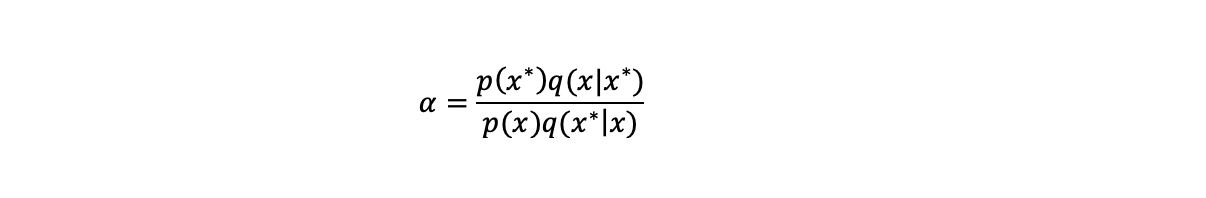
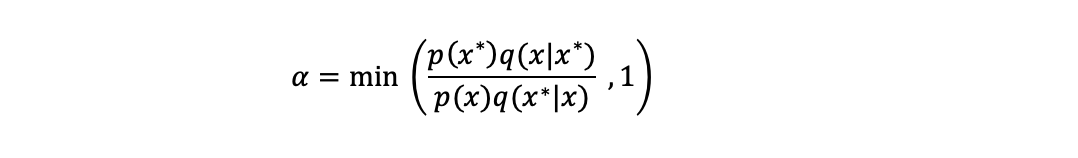
edits

Changed region(s): [[0.2449, 0.2532, 0.6122, 0.7089]]

diff --git a/technical/mcmc/index.html b/technical/mcmc/index.html
@@ -101,8 +101,8 @@ The idea is to use a Markov chain to generate samples from the distribution we w
   "keywords": [
     "technical"
   ],
-  "articleBody": "View from the Peggy Guggenheim Collection, Venice.\nIn the previous post we calculated the posterior distribution for a parameter we wanted to estimate. However, in practice, this is often not analytically possible and numerical simulations are needed. Here we evaluate the distribution using a Markov Chain Monte Carlo (MCMC) technique.\nThe idea is to use a Markov chain to generate samples from the distribution we want to evaluate where as the chain evolves over time the values it generates have the properties of the posterior’s probability distribution. These techniques have become important in Bayesian inference as they allow complicated probability distributions to be simulated.\nThis post covers:\n1. The Metropolis Hastings MCMC algorithm\n2. Why this works\n3. Evaluating a Bayesian posterior distribution with MCMC\n1.\tThe Metropolis Hastings MCMC algorithm Here we look at the Metropolis Hastings algorithm. The distribution we want to simulate is labelled as p. We have a state x and from this generate a proposed new state x* with the probability q(x*|x). q is a probability distribution for x* which depends on x, known as a proposal distribution. As the chain evolves over time the distribution of x values it generates has the properties of the distribution p. x is indexed by the time period s: x(s).\nThe algorithm to simulate the probability distribution is:\n Randomly select a starting value of x Generate a proposed next value for x: x* from the proposal distribution q where the probability of the proposed x* depends on the existing value: x*=q(x*|x) Compute the probability of accepting the proposal using:\n Calculate the minimum of 1 and alpha: r = min(1,alpha) Decide what the next state is according to the rule:\nif alpha = r reject proposal, stick with exiting state x(s+1) = x(s)\ni.e. switch to the new state with probability alpha or stay with the existing state with probability 1-alpha. Return to 2. and generate a new proposed value from x(s+1)  2.\tWhy this works That if you run this several thousand times it generates a set of x values that have the probability distribution p(x) is, at least to me, not immediately obvious.\nWhat follows is a plausibility argument that the way the probabilities are constructed means that the chain will approach p(x) over time. Here we assume there is a finite number of M states and the probability of state i is labelled p(i). Although the argument is based on a finite number of states in practice a continuous distribution can be approximated by a large number of states.\nIn a Markov chain there is an equilibrium where for any given state the probability of outflow from the state is equal to the probability of inflow. In this situation the distribution over the states tends to be stable over time as the probability of the state growing or shrinking is the same. We want to show that the equilibrium of the Markov chain we have constructed corresponds to the probability distribution p we want to simulate.\nBetween two states i and j the probability of switching from state i to state j under the rules is:\n(the probability state j is proposed) x (probability state j is accepted) i.e: These probabilities summed over all possible states that can be reached from i (including staying in state i) sum to 1: The probability of being in state i and then switching to state j is\n(probability of being in state i) x (probability of switching from state i to j): Similarly, the probability of being in state j and switching to state i is: min(a,b)=min(b,a) and so the probability of entering state i from state j or vice versa is the same and we have an equilibrium for the probability distribution p(i).\nSuppose we start in state x(1)=i generated from the probability distribution with p(i) and calculate the probability of the next state being in state i from one iteration of the chain to the next: Inserting the equilibrium condition and rewriting to look at the second draw from the chain we get: The probability distribution of the second draw having state i, has the desired probability p(i), but this equation looks the same for each iteration of the chain so the third, and the fourth draw etc will also have the probability p(i) and similarly for the M-1 other states. p(i) is therefore the equilibrium distribution of the chain. In small samples the chain will not necessarily give the target probability distribution due to random variation, but as we draw more and more the distribution of the chain’s values should approach the probability distribution we want to simulate.\n3.\tEvaluating a Bayesian posterior distribution with MCMC To see the MCMC algorithm in action we use it to evaluate a simple example: the Gamma posterior produced by the Poisson likelihood and Gamma prior in the last post. This does not need to be simulated as it can be solved analytically, but gives a clear benchmark that we can compare the MCMC simulation against. For other functional forms and complicated situations with many parameters and multi-dimensional priors and likelihoods the posterior’s functional form (or the simpler likelihood multiplied the prior) cannot be directly calculated and therefore the distribution needs to be simulated to evaluate it. Even if you know the posterior distribution, quantities of interest such as its average may not always be readily calculable, but are easy to infer if you have a numerical approximation. The python code to simulate this and its output are show below.\nIn the simulation we use a proposal distribution of a Normal distribution with a mean equal to the current state to generate a proposal for the next one. As the lambda which parameterises the posterior can only take positive values, negative proposal values are converted to positive by multiplying by -1.\nThe charts show the posterior for dfferent sample sizes of simulated data, the corresponding MCMC simulations and the Gamma distribution that corresponds to the MCMC simulation results. The mean and the variance of a Gamma distribution are a function of the two parameters alpha and beta that specify it. This relationship can be reversed to estimate these parameters from the mean and variance of the simulations and hence their associated Gamma distributions. As can be seen in the charts the simulated distribution of the chain’s values (and its corresponding Beta function) match the posterior distribution very closely. This is slightly artificial as we know what the true posterior distribution is, but demonstrates that the technique works.\nimport numpy as np import pandas as pd import matplotlib.pyplot as plt from scipy.stats import norm, lognorm from scipy.special import gamma from scipy.stats import gamma as gammadist # Number of samples drawn sample_number = 20000 # Functions that we are using def posterior(lambda_val, alpha, beta, data): \"\"\"function that gives the values of the gamma posterior for different values of alpha, beta and data\"\"\" count_no = len(data) sum_val = sum(data) new_beta = beta + count_no new_alpha = alpha + sum_val numerator = ( (new_beta**new_alpha) * np.exp(-lambda_val * new_beta) * (lambda_val ** (new_alpha - 1)) ) denominator = gamma(new_alpha) val = numerator / denominator return val def mcmc_threshold(x, y, data_sample): \"\"\"Function that generates the MCMC probability threshold for accepting the proposed state x is the current state y is the proposed new state norm.pdf(x,y,100) is the function x of a normal distribution with mean y and variance 100 \"\"\" ratio = (posterior(y, 0.3, 0.1, data_sample) * norm.pdf(x, y, 10)) / ( posterior(x, 0.3, 0.1, data_sample) * norm.pdf(y, x, 10) ) return min(ratio, 1) # The sample size of the datasets data_sets = [0, 3, 5, 25] # Sets up four subplots and the x axis the data will be evaluated over fig, axs = plt.subplots(4, figsize=(12, 15)) x = np.arange(0, 15, 0.1) # For each of the data_sets do a MCMC simulation of the posterior for index, sample_size in enumerate(data_sets): # Create a data frame to hold the results data_store = pd.DataFrame(index=range(sample_number), columns=[\"state_of_chain\"]) # Generate the artifical data to update the likelihood for the different sample sizes if index == 0: values = [] else: values = list(np.random.poisson(6, sample_size)) # Create an initial value to start the chain initial_value = np.random.normal(10, 10) state = initial_value # Run the samples for i in range(0, sample_number): # Generate the proposed state prop_value = np.random.normal(state, 10) # Generate a number between 1 and 0 to simulate probability of acceptance prob_sample = np.random.uniform(0, 1) # Set the proposed value to be positive if it is negative by multiplying by -1 if prop_value References:\nMurphy, K. ‘Machine Learning A probabilistic perspective’, Monte Carlo Inference\nDonovan, T. and Mickey, R. ‘Bayesian Statistics for Beginners’\nEfron, B. and Hastie, T., ‘Computer Age Statistical Inference’\nWilliams, D., ‘A course in Probability and Statistics’\nPrevious posts Bayes 1: Introduction to Bayesian inference\n",
-  "wordCount" : "1612",
+  "articleBody": "View from the Peggy Guggenheim Collection, Venice.\nIn the previous post we calculated the posterior distribution for a parameter we wanted to estimate. However, in practice, this is often not analytically possible and numerical simulations are needed. Here we evaluate the distribution using a Markov Chain Monte Carlo (MCMC) technique.\nThe idea is to use a Markov chain to generate samples from the distribution we want to evaluate where as the chain evolves over time the values it generates have the properties of the posterior’s probability distribution. These techniques have become important in Bayesian inference as they allow complicated probability distributions to be simulated.\nThis post covers:\n1. The Metropolis Hastings MCMC algorithm\n2. Why this works\n3. Evaluating a Bayesian posterior distribution with MCMC\n1.\tThe Metropolis Hastings MCMC algorithm Here we look at the Metropolis Hastings algorithm. The distribution we want to simulate is labelled as p. We have a state x and from this generate a proposed new state x* with the probability q(x*|x). q is a probability distribution for x* which depends on x, known as a proposal distribution. As the chain evolves over time the distribution of x values it generates has the properties of the distribution p. x is indexed by the time period s: x(s).\nThe algorithm to simulate the probability distribution is:\n Randomly select a starting value of x Generate a proposed next value for x: x* from the proposal distribution q where the probability of the proposed x* depends on the existing value: x*=q(x*|x) Compute a probability of accepting the proposal (alpha):\nThe minimum ensures that the probability is not greater than 1 Generate a uniform random number r between 0 and 1 Decide what the next state is according to the rules:\nif r = alpha reject proposal and stick with exiting state: x(s+1) = x(s)\ni.e. switch to the new state with probability alpha or stay with the existing state with probability 1-alpha. Return to 2. and generate a new proposed value from x(s+1)  2.\tWhy this works That if you run this several thousand times it generates a set of x values that have the probability distribution p(x) is, at least to me, not immediately obvious.\nWhat follows is a plausibility argument that the way the probabilities are constructed means that the distribution of the chains states will approach p(x) over time. Here we assume there is a finite number of M states and the probability of state i is labelled p(i). Although the argument is based on a finite number of states in practice a continuous distribution can be approximated by a large number of states.\nIn a Markov chain there is an equilibrium where for any given state the probability of outflow from the state is equal to the probability of inflow. In this situation the distribution over the states tends to be stable over time as the probability of the state growing or shrinking is the same. We want to show that the equilibrium of the Markov chain we have constructed corresponds to the probability distribution p we want to simulate.\nBetween two states i and j the probability of switching from state i to state j under the rules is:\n(the probability state j is proposed) x (probability state j is accepted) i.e: These probabilities summed over all possible states that can be reached from i (including staying in state i) sum to 1: The probability of being in state i and then switching to state j is\n(probability of being in state i) x (probability of switching from state i to j): Similarly, the probability of being in state j and switching to state i is: min(a,b)=min(b,a) and so the probability of entering state i from state j or vice versa is the same and we have an equilibrium for the probability distribution p(i).\nSuppose we start in state x(1)=i generated from the probability distribution with p(i) and calculate the probability of the next state being in state i from one iteration of the chain to the next: Inserting the equilibrium condition and rewriting to look at the second draw from the chain we get: The probability distribution of the second draw having state i, has the desired probability p(i), but this equation looks the same for each iteration of the chain so the third, and the fourth draw etc will also have the probability p(i) and similarly for the M-1 other states. p(i) is therefore the equilibrium distribution of the chain. In small samples the chain will not necessarily give the target probability distribution due to random variation, but as we draw more and more the distribution of the chain’s values should approach the probability distribution we want to simulate.\n3.\tEvaluating a Bayesian posterior distribution with MCMC To see the MCMC algorithm in action we use it to evaluate a simple example: the Gamma posterior produced by the Poisson likelihood and Gamma prior in the last post. This does not need to be simulated as it can be solved analytically, but gives a clear benchmark that we can compare the MCMC simulation against. For other functional forms and complicated situations with many parameters and multi-dimensional priors and likelihoods the posterior’s functional form (or the simpler likelihood multiplied the prior) cannot be directly calculated and therefore the distribution needs to be simulated to evaluate it. Even if you know the posterior distribution, quantities of interest such as its average may not always be readily calculable, but are easy to infer if you have a numerical approximation. The python code to simulate this and its output are show below.\nIn the simulation we use a proposal distribution of a Normal distribution with a mean equal to the current state to generate a proposal for the next one. As the lambda which parameterises the posterior can only take positive values, negative proposal values are converted to positive by multiplying by -1.\nThe charts show the posterior for different sample sizes of simulated data used to update the posterior, the corresponding MCMC simulations and the Gamma distribution that corresponds to the MCMC simulation results. The mean and the variance of a Gamma distribution are a function of the parameters alpha and beta that specify it. This relationship can be reversed to estimate these parameters from the mean and variance of the simulations and hence their associated Gamma distributions. As can be seen in the charts the simulated distribution of the chain’s values (and its corresponding Beta function) match the posterior distribution very closely. This is slightly artificial as we know what the true posterior distribution is, but demonstrates that the technique works.\nimport numpy as np import pandas as pd import matplotlib.pyplot as plt from scipy.stats import norm, lognorm from scipy.special import gamma from scipy.stats import gamma as gammadist # Number of samples drawn sample_number = 20000 # Functions that we are using def posterior(lambda_val, alpha, beta, data): \"\"\"function that gives the values of the gamma posterior for different values of alpha, beta and data\"\"\" count_no = len(data) sum_val = sum(data) new_beta = beta + count_no new_alpha = alpha + sum_val numerator = ( (new_beta**new_alpha) * np.exp(-lambda_val * new_beta) * (lambda_val ** (new_alpha - 1)) ) denominator = gamma(new_alpha) val = numerator / denominator return val def mcmc_threshold(x, y, data_sample): \"\"\"Function that generates the MCMC probability threshold for accepting the proposed state x is the current state y is the proposed new state norm.pdf(x,y,100) is the function x of a normal distribution with mean y and variance 100 \"\"\" ratio = (posterior(y, 0.3, 0.1, data_sample) * norm.pdf(x, y, 10)) / ( posterior(x, 0.3, 0.1, data_sample) * norm.pdf(y, x, 10) ) return min(ratio, 1) # The sample size of the datasets data_sets = [0, 3, 5, 25] # Sets up four subplots and the x axis the data will be evaluated over fig, axs = plt.subplots(4, figsize=(12, 15)) x = np.arange(0, 15, 0.1) # For each of the data_sets do a MCMC simulation of the posterior for index, sample_size in enumerate(data_sets): # Create a data frame to hold the results data_store = pd.DataFrame(index=range(sample_number), columns=[\"state_of_chain\"]) # Generate the artifical data to update the likelihood for the different sample sizes if index == 0: values = [] else: values = list(np.random.poisson(6, sample_size)) # Create an initial value to start the chain initial_value = np.random.normal(10, 10) state = initial_value # Run the samples for i in range(0, sample_number): # Generate the proposed state prop_value = np.random.normal(state, 10) # Generate a number between 1 and 0 to simulate probability of acceptance prob_sample = np.random.uniform(0, 1) # Set the proposed value to be positive if it is negative by multiplying by -1 if prop_value References:\nMurphy, K. ‘Machine Learning A probabilistic perspective’, Monte Carlo Inference\nDonovan, T. and Mickey, R. ‘Bayesian Statistics for Beginners’\nEfron, B. and Hastie, T., ‘Computer Age Statistical Inference’\nWilliams, D., ‘A course in Probability and Statistics’\nPrevious posts Bayes 1: Introduction to Bayesian inference\n",
+  "wordCount" : "1638",
   "inLanguage": "en",
   "image":"https://johnardavies.github.io/mcmc_title.png","datePublished": "2024-07-30T00:00:00Z",
   "dateModified": "2024-07-30T00:00:00Z",
@@ -230,13 +230,14 @@ by the time period s: x(s).</p>
 <li>Randomly select a starting value of x</li>
 <li>Generate a proposed next value for x: x* from the proposal distribution q where the probability of the proposed x* depends on the
 existing value: x*=q(x*|x)</li>
-<li>Compute the probability of accepting the proposal using:<br>
+<li>Compute a probability of accepting the proposal (alpha):<br>
 <img loading="lazy" src="https://johnardavies.github.io/mcmc_alg1.png" alt="mcmc_alg1"  />
-</li>
-<li>Calculate the minimum of 1 and alpha: r = min(1,alpha)</li>
-<li>Decide what the next state is according to the rule:<br>
-if  alpha  &lt;  r  accept the proposal  x(s+1)  =  x*<br>
-if  alpha  &gt;= r  reject proposal, stick with exiting state x(s+1)  =  x(s)<br>
+
+The minimum ensures that the probability is not greater than 1</li>
+<li>Generate a uniform random number r between 0 and 1</li>
+<li>Decide what the next state is according to the rules:<br>
+if   r &lt; alpha  accept the proposal and make the next state x*: x(s+1)  =  x*<br>
+if   r &gt;= alpha reject proposal and stick with exiting state: x(s+1)  =  x(s)<br>
 i.e. switch to the new state with probability alpha or stay with the existing state with probability 1-alpha.</li>
 <li>Return to 2. and generate a new proposed value from x(s+1)</li>
 </ol>
@@ -244,7 +245,7 @@ i.e. switch to the new state with probability alpha or stay with the existing st
 <p>That if you run this several thousand times it generates a set of x values that have the probability distribution p(x) is, at least to me,
 not immediately obvious.</p>
 <p>What follows is a plausibility argument that the way the probabilities are constructed means that
-the chain will approach p(x) over time. Here we assume there is a finite number of M states and the probability of state i is labelled p(i).
+the distribution of the chains states will approach p(x) over time. Here we assume there is a finite number of M states and the probability of state i is labelled p(i).
 Although the argument is based on a finite number of states in practice a continuous distribution can be approximated by a large number of states.</p>
 <p>In a Markov chain there is an equilibrium where for any given state the probability of outflow from the state is equal to the probability of
 inflow. In this situation the distribution over the states tends to be stable over time as the probability of the state growing or shrinking is the
@@ -289,8 +290,8 @@ simulate this and its output are show below.</p>
 <p>In the simulation we use a proposal distribution of a Normal distribution with a mean equal to the current state to generate a proposal for the
 next one. As the lambda which parameterises the posterior can only take positive values, negative proposal values are converted
 to positive by multiplying by -1.</p>
-<p>The charts show the posterior for dfferent sample sizes of simulated data, the corresponding MCMC simulations and the Gamma distribution that
-corresponds to the MCMC simulation results. The mean and the variance of a Gamma distribution are a function of the two parameters alpha and beta that specify it. This relationship can be reversed to
+<p>The charts show the posterior for different sample sizes of simulated data used to update the posterior, the corresponding MCMC simulations and the Gamma distribution that
+corresponds to the MCMC simulation results. The mean and the variance of a Gamma distribution are a function of the parameters alpha and beta that specify it. This relationship can be reversed to
 estimate these parameters from the mean and variance of the simulations and hence their associated Gamma distributions.
 <img loading="lazy" src="https://johnardavies.github.io/mcmc_alg9.png" alt="mcmc_alg9"  />
 
